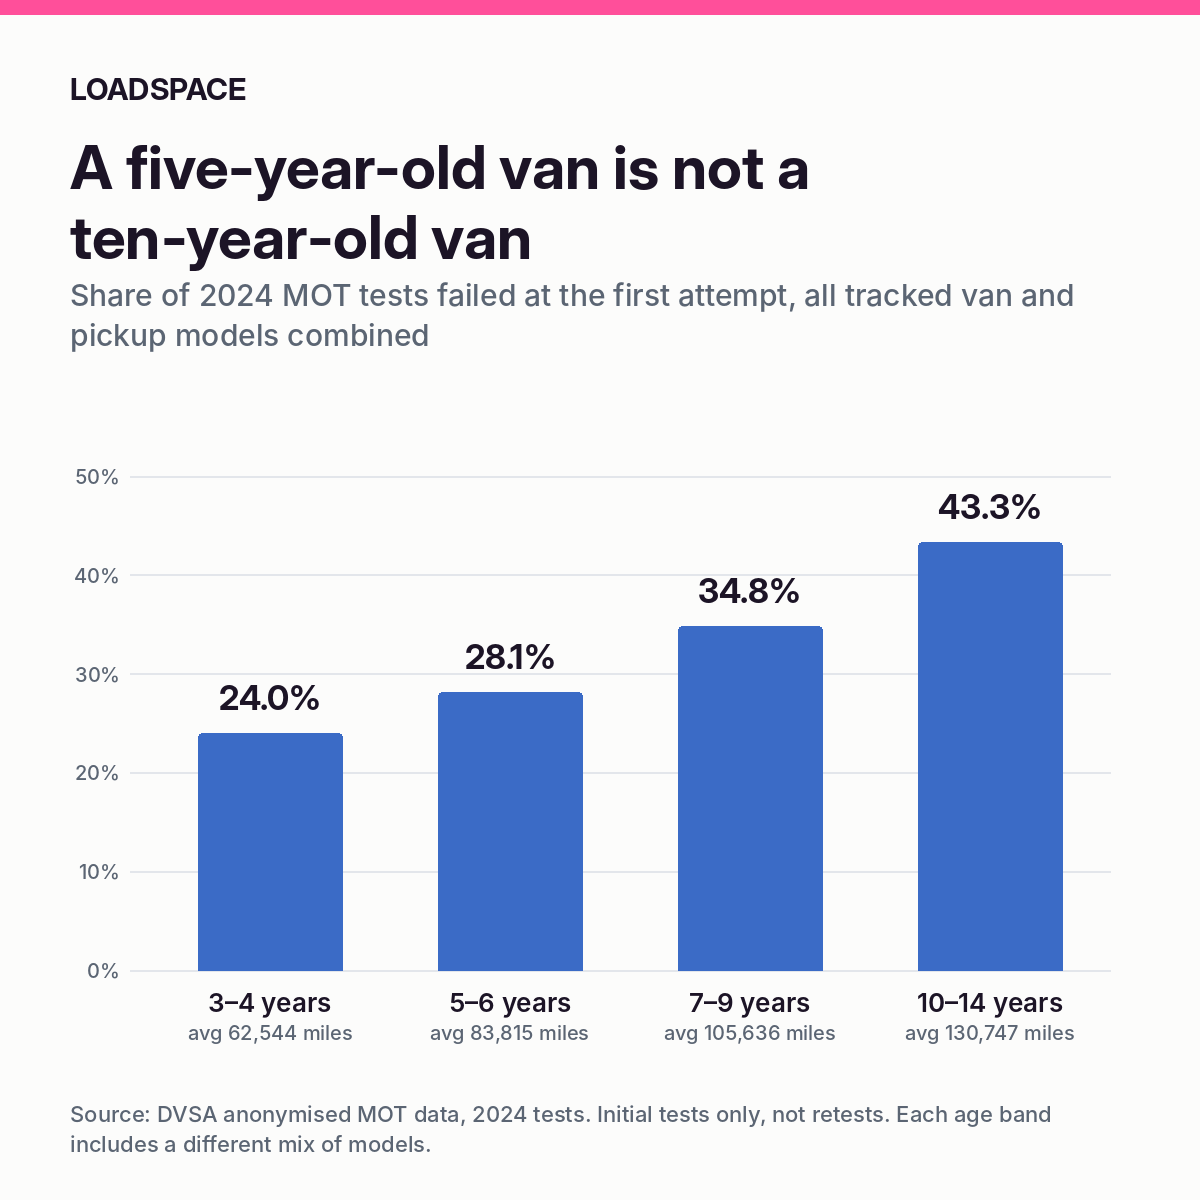
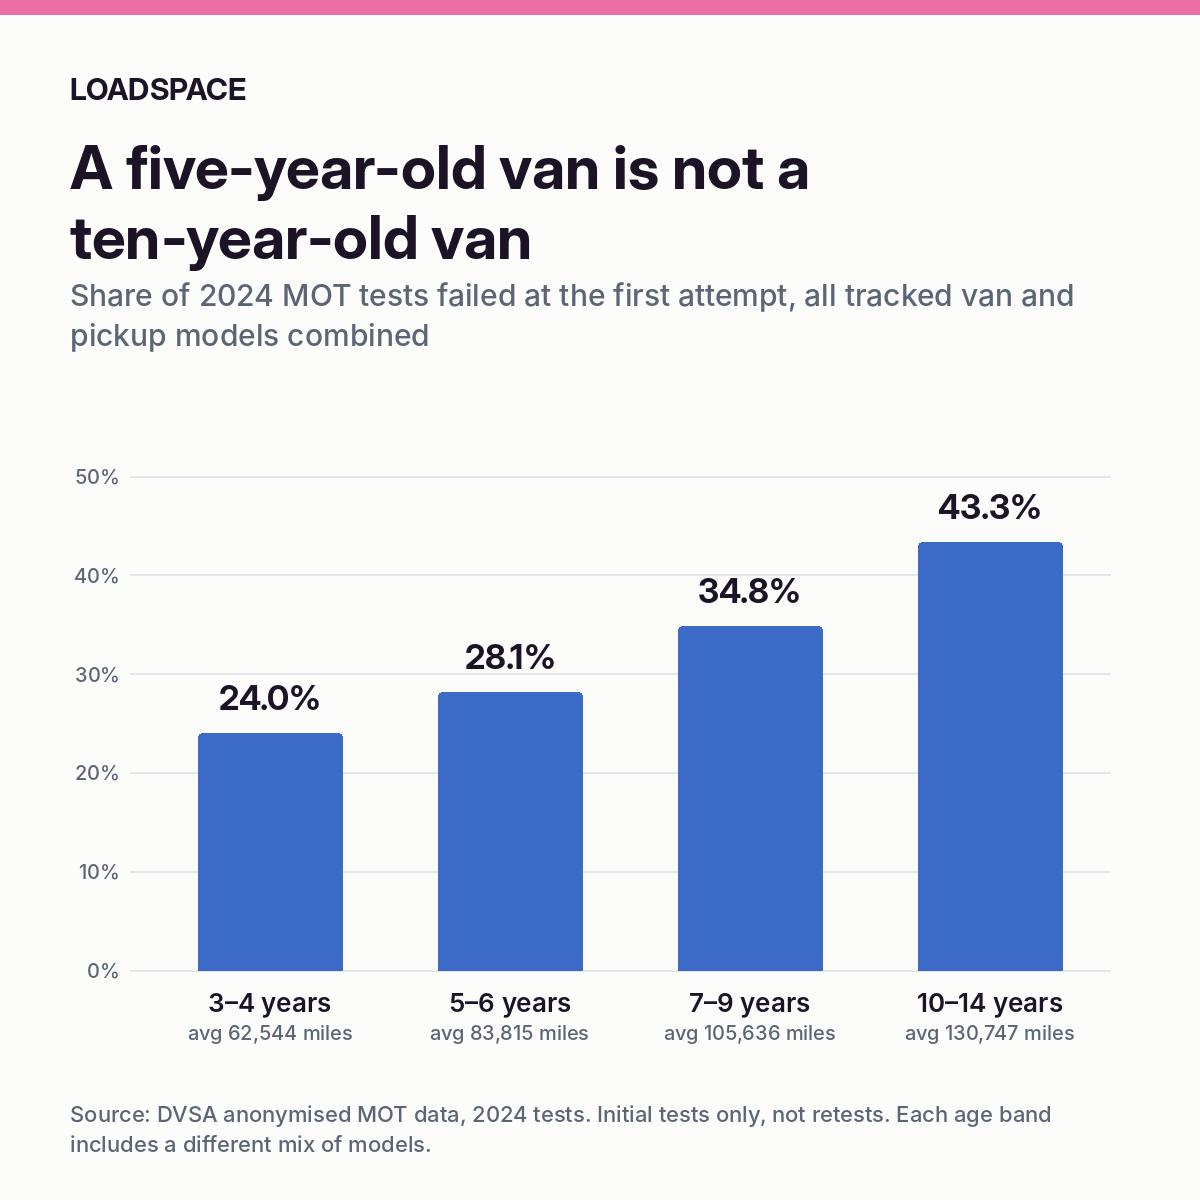
Soften the pink (Pink 1 with soft pink #ec6fa3)
Claude-Session: https://claude.ai/code/session_01Y739fKfVCrU5qPWWHgayZV

Changed region(s): [[0.0, 0.0, 1.0, 0.0308]]

diff --git a/src/styles/global.css b/src/styles/global.css
@@ -5,10 +5,10 @@
   --bg: #ffffff;
   --surface: #f7f4f8;
   --line: #e7e1ea;
-  --accent: #ff4f9a;
+  --accent: #ec6fa3;
   --accent-ink: #1c1426;
-  --accent-text: #c2185b;
-  --link: #c2185b;
+  --accent-text: #b8326c;
+  --link: #b8326c;
   --good: #1f7a4d;
   --warn-bg: #fff0f6;
   --warn-line: #f5b8d2;
@@ -31,10 +31,10 @@
     --bg: #140f19;
     --surface: #1f1726;
     --line: #33283d;
-    --accent: #ff4f9a;
+    --accent: #ec6fa3;
     --accent-ink: #1c1426;
-    --accent-text: #ff8fc0;
-    --link: #ff8fc0;
+    --accent-text: #f39cc2;
+    --link: #f39cc2;
     --good: #5fd39a;
     --warn-bg: #2e1724;
     --warn-line: #7a2f52;
@@ -479,7 +479,7 @@ main:has(> .tool-hero) { padding-top: 0; }
 .tool-results .highlight .big { color: var(--accent); }
 .tool-results p, .tool-results strong { color: var(--hero-text); }
 .tool-results .result { background: none; border: 0; padding: 0; margin: 0; }
-.tool-results a { color: #ff8fc0; }
+.tool-results a { color: #f39cc2; }
 .tool-bars { display: grid; gap: .55rem; margin: 1rem 0 .2rem; }
 .tool-bar { display: grid; grid-template-columns: 4.5rem 1fr; align-items: center; gap: .6rem; font-size: .8rem; color: var(--hero-muted); }
 .tool-bar span.track { height: 12px; border-radius: 6px; background: rgba(255,255,255,.08); overflow: hidden; }

diff --git a/scripts/news_images.py b/scripts/news_images.py
@@ -26,7 +26,7 @@ _extra = ROOT / 'src/data/photos.json'  # general photo library (scripts/add_pho
 if _extra.exists():
     PHOTOS.update(json.loads(_extra.read_text()))
 
-NAVY, NAVY2, AMBER, WHITE, MUTED = '#1c1426', '#130d1a', '#ff4f9a', '#ffffff', '#e6dced'
+NAVY, NAVY2, AMBER, WHITE, MUTED = '#1c1426', '#130d1a', '#ec6fa3', '#ffffff', '#e6dced'
 W, H = 1600, 900
 
 
@@ -75,9 +75,9 @@ def column_card(fm):
     """Branded image for the Overloaded column: pink, with the column name and headline."""
     im = Image.new('RGB', (W, H), AMBER)
     d = ImageDraw.Draw(im)
-    d.polygon([(W * 0.66, 0), (W, 0), (W, H), (W * 0.5, H)], fill='#f0418b')
+    d.polygon([(W * 0.66, 0), (W, 0), (W, H), (W * 0.5, H)], fill='#e05a93')
     sil = [(1180, 690), (1180, 520), (1420, 520), (1500, 590), (1560, 590), (1560, 690)]
-    d.polygon(sil, fill='#e2367f')
+    d.polygon(sil, fill='#d24d86')
     for cx in (1250, 1490):
         d.ellipse([cx - 38, 652, cx + 38, 728], fill=NAVY)
     d.rectangle([0, 0, 18, H], fill=NAVY)

diff --git a/scripts/linkedin_images.py b/scripts/linkedin_images.py
@@ -18,7 +18,7 @@ FONTS = ROOT / 'scripts/fonts'
 REL = json.loads((ROOT / 'src/data/reliability.json').read_text())
 
 S = 1200
-NAVY, NAVY2, AMBER, WHITE, INK, MUTED, GRID, BG = '#1c1426', '#130d1a', '#ff4f9a', '#ffffff', '#1c1426', '#5b6573', '#e3e6eb', '#fcfcfb'
+NAVY, NAVY2, AMBER, WHITE, INK, MUTED, GRID, BG = '#1c1426', '#130d1a', '#ec6fa3', '#ffffff', '#1c1426', '#5b6573', '#e3e6eb', '#fcfcfb'
 BLUE, GOLD = '#3b6bc6', '#c98a00'  # validated chart pair (dataviz validator: all checks pass, labels required)
 
 
